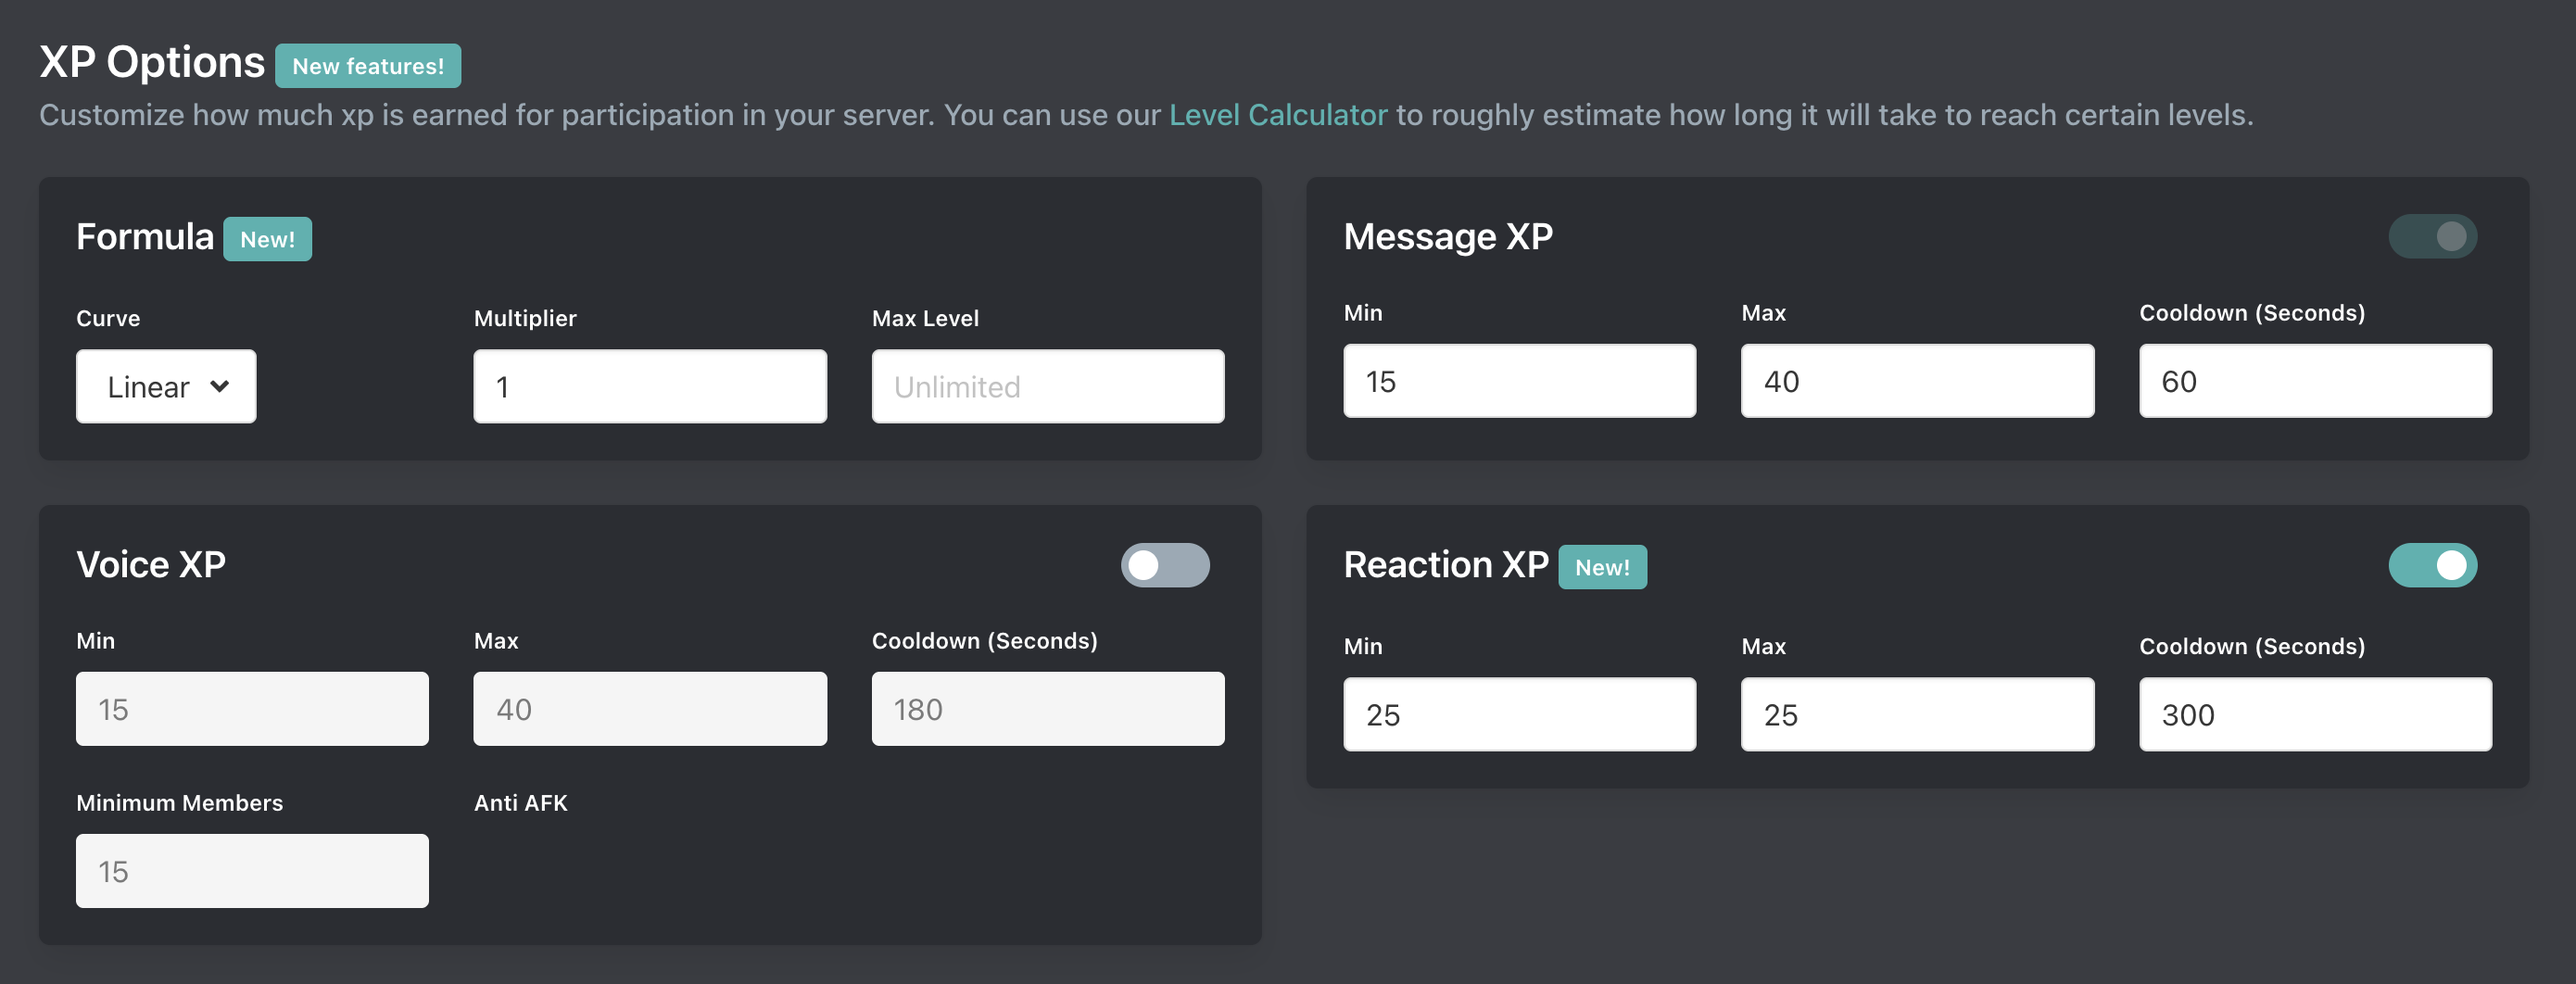
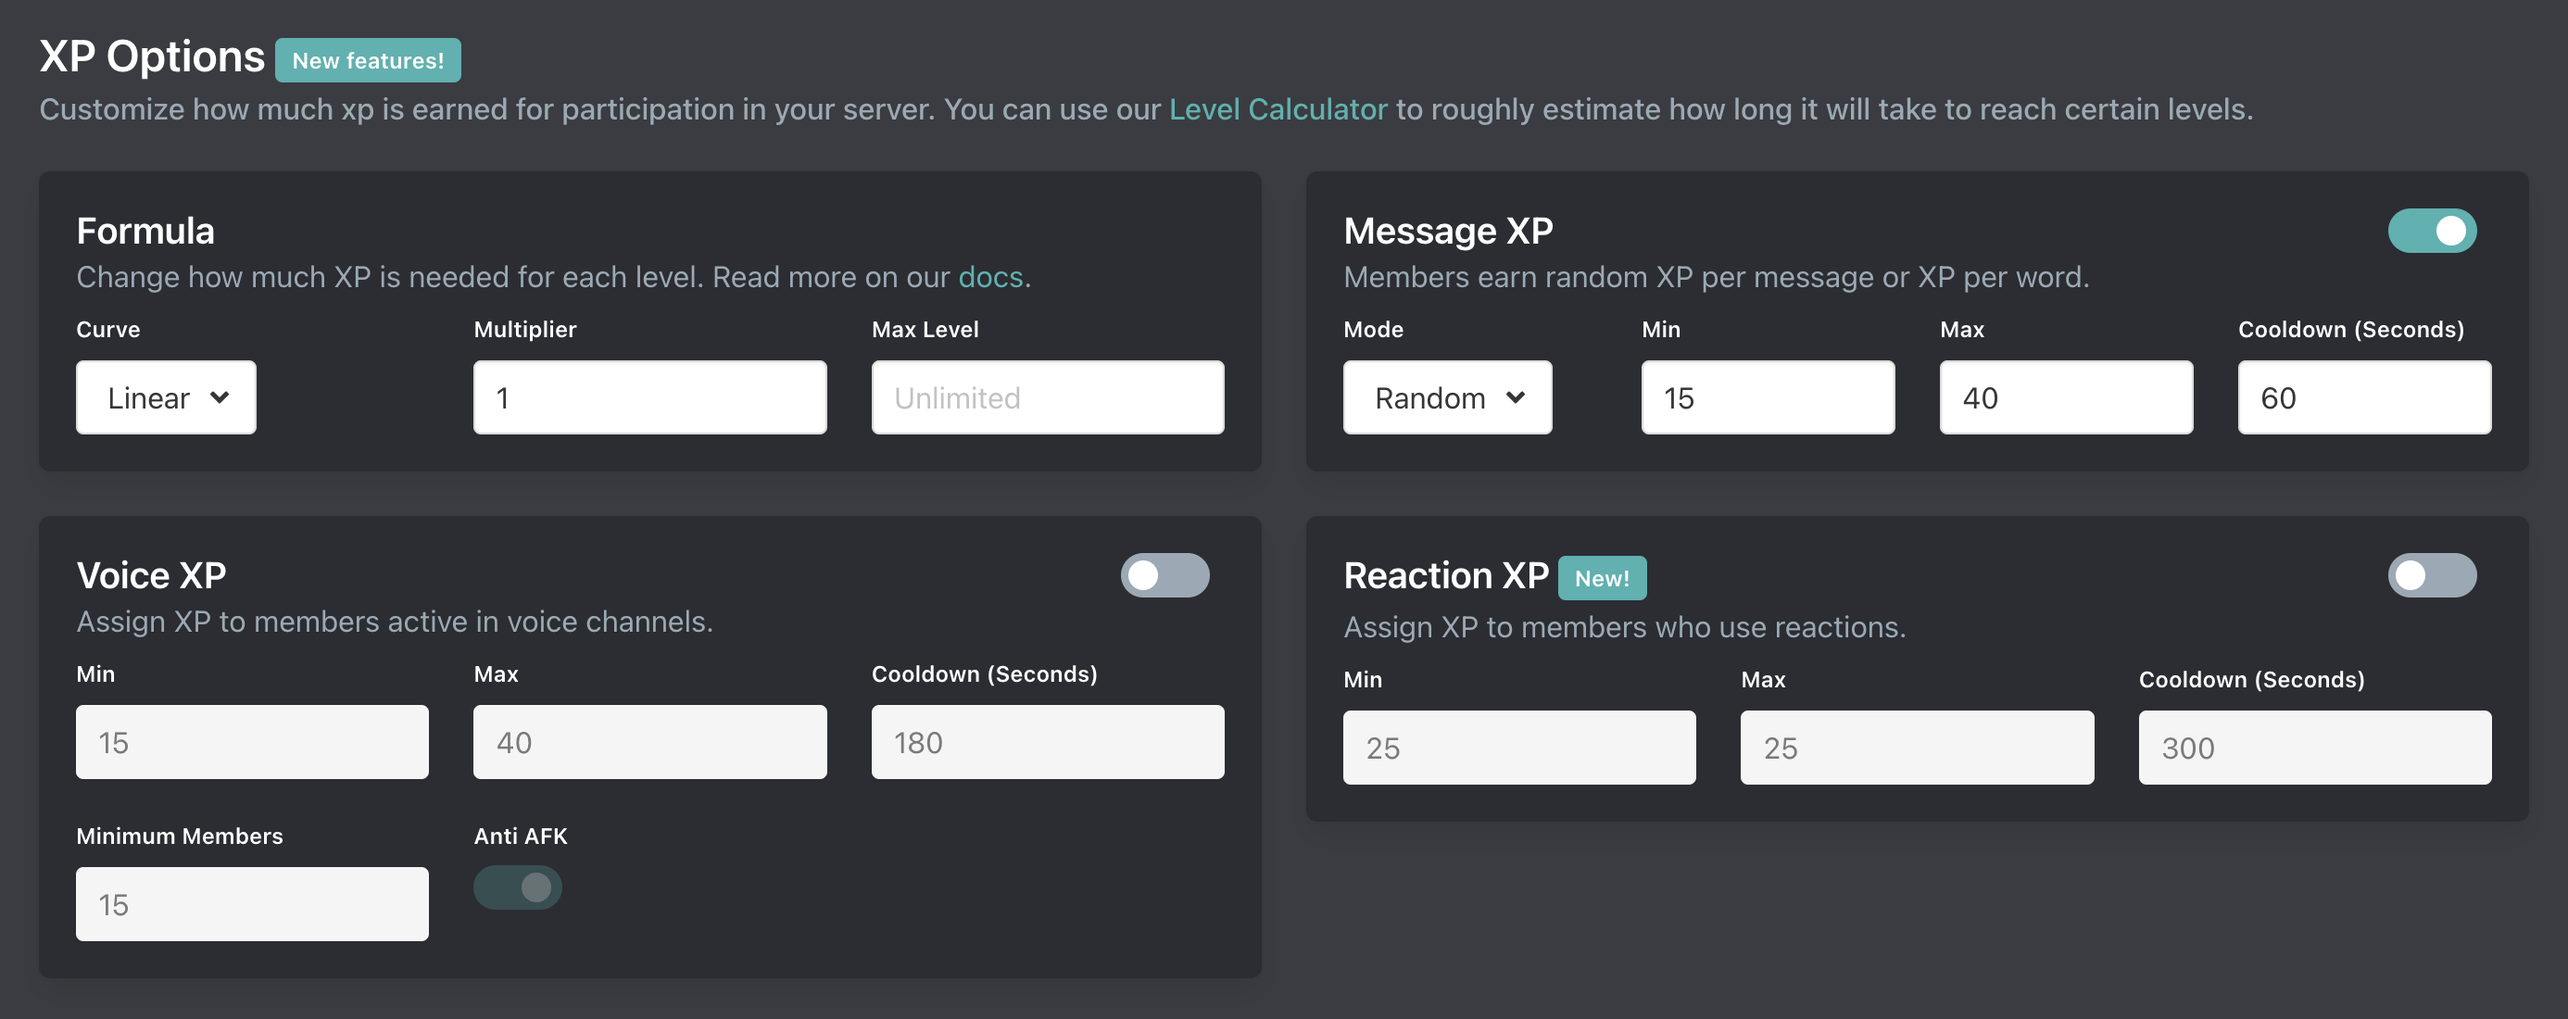
add msg xp mode & changelog

diff --git a/src/plugins/leveling/setup/xp-options.md b/src/plugins/leveling/setup/xp-options.md
@@ -56,7 +56,7 @@ The max level is the max level which your members are able to earn. If none is s
 
 ## XP Options
 
-All XP sources have the following settings:
+All XP sources have the following settings. Some XP sources have additional settings.
 
 | **Setting** | **Explanation** |
 | - | - |
@@ -64,10 +64,16 @@ All XP sources have the following settings:
 | Max | The minimum amount of XP members will earn. |
 | Cooldown | This is how often (in seconds) members can earn for the XP source |
 
-
 ### Message XP
 
-Message XP cannot be disabled. If you do not want your members to earn any XP when sending messages you can add all your text channels as no xp channels.
+Arcane can reward members XP for sending messages in your servers. By default Arcane rewards per message.
+
+#### Message XP Mode
+
+Arcane offers two Message XP Modes:
+
+- **Random**: Awards random XP between min and max per message. The default mode.
+- **Per Word**: Awards max XP per word (3+ characters) in a message with more words/characters than whitespace/non-alphanumeric characters. Min and max XP are automatically set equal.
 
 ### Reaction XP
 

diff --git a/src/changelogs/9-2-2025/index.md b/src/changelogs/9-2-2025/index.md
@@ -1,0 +1,36 @@
+---
+outline: deep
+search: false
+date: 9-2-2025
+title: Leveling
+---
+
+# 9-2-2025
+
+## Message XP
+
+![Message XP](./modes.png)
+
+You can now disable Message XP. Useful if you only want members earning xp for voice activity or reactions.
+
+### Message XP Mode
+
+::: tip
+Read more about the modes [here](/plugins/leveling/setup/xp-options#message-xp-mode)
+:::
+
+Today we are introducing the option for Arcane to reward XP for every word in a message instead of just for an entire message.
+
+By default Arcane will continue rewarding for entire messages but you can swap to the new **Per word** option on the [dashboard](/core/dashboard).
+
+#### Example
+
+Example message:
+
+```
+Hello world. I'm happy to be here!
+```
+
+With the default **Random** mode, Arcane will assign 15 to 40 XP for the message.
+
+With the new **Per word** mode, Arcane will assign 1 XP for each word. The message contains 7 words total. 4 words are valid (Hello, world, happy, here) so they would earn 4 XP. 3 words are under 3 characters so they are invalid and do not earn any XP.
